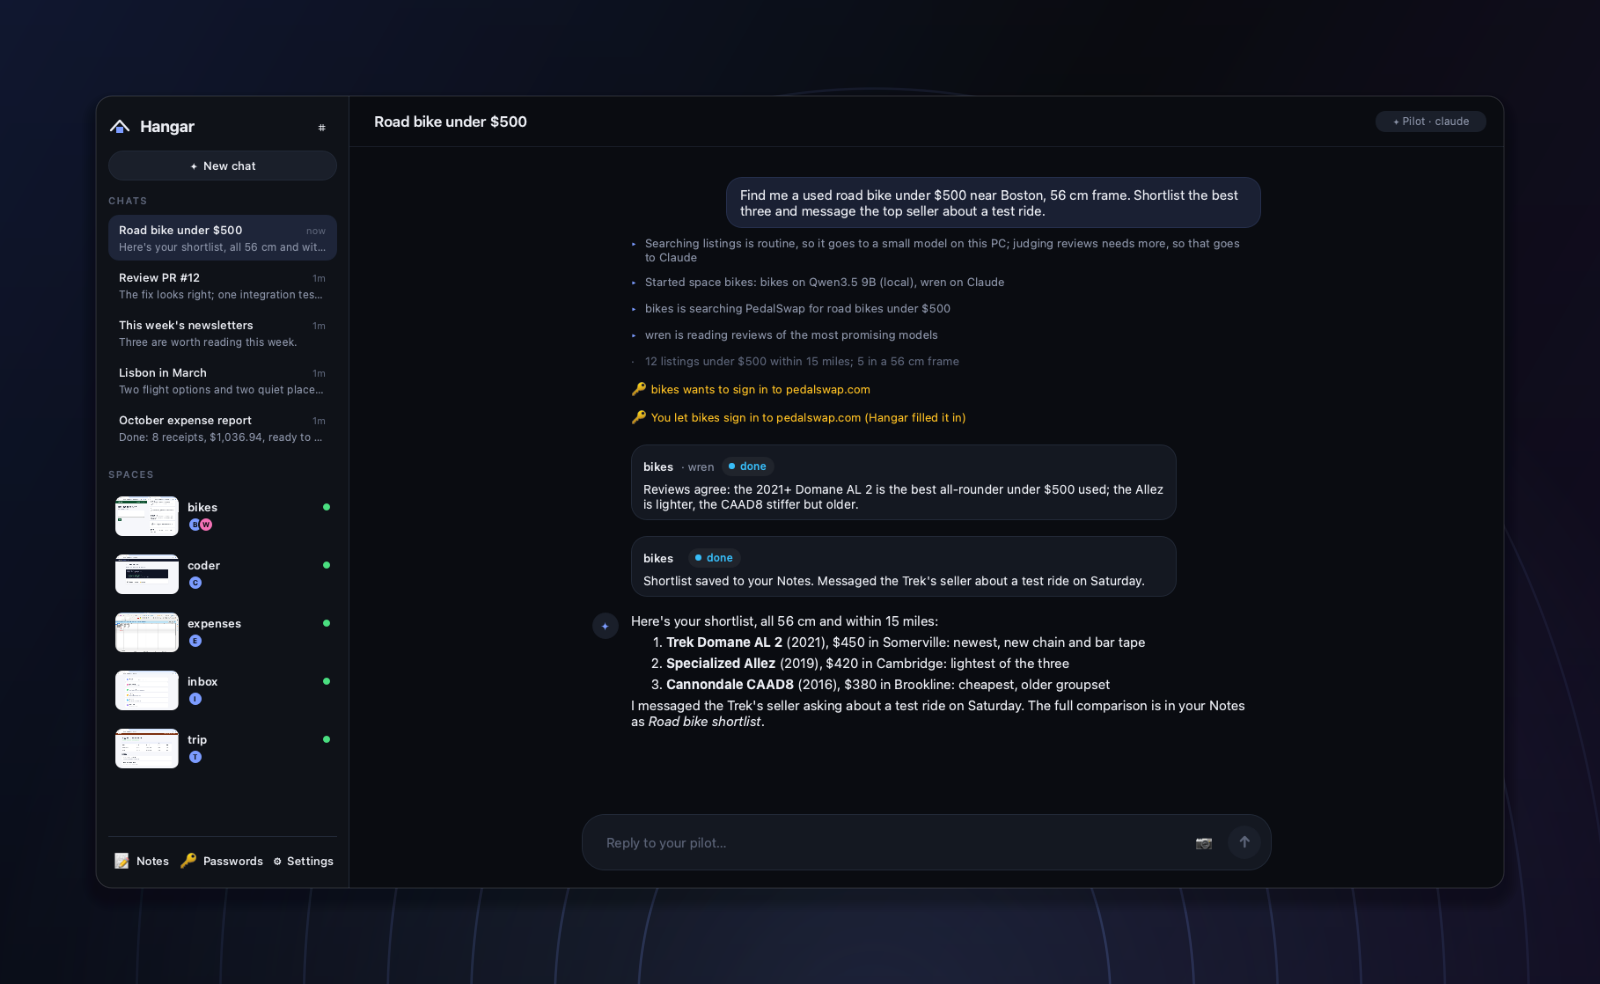
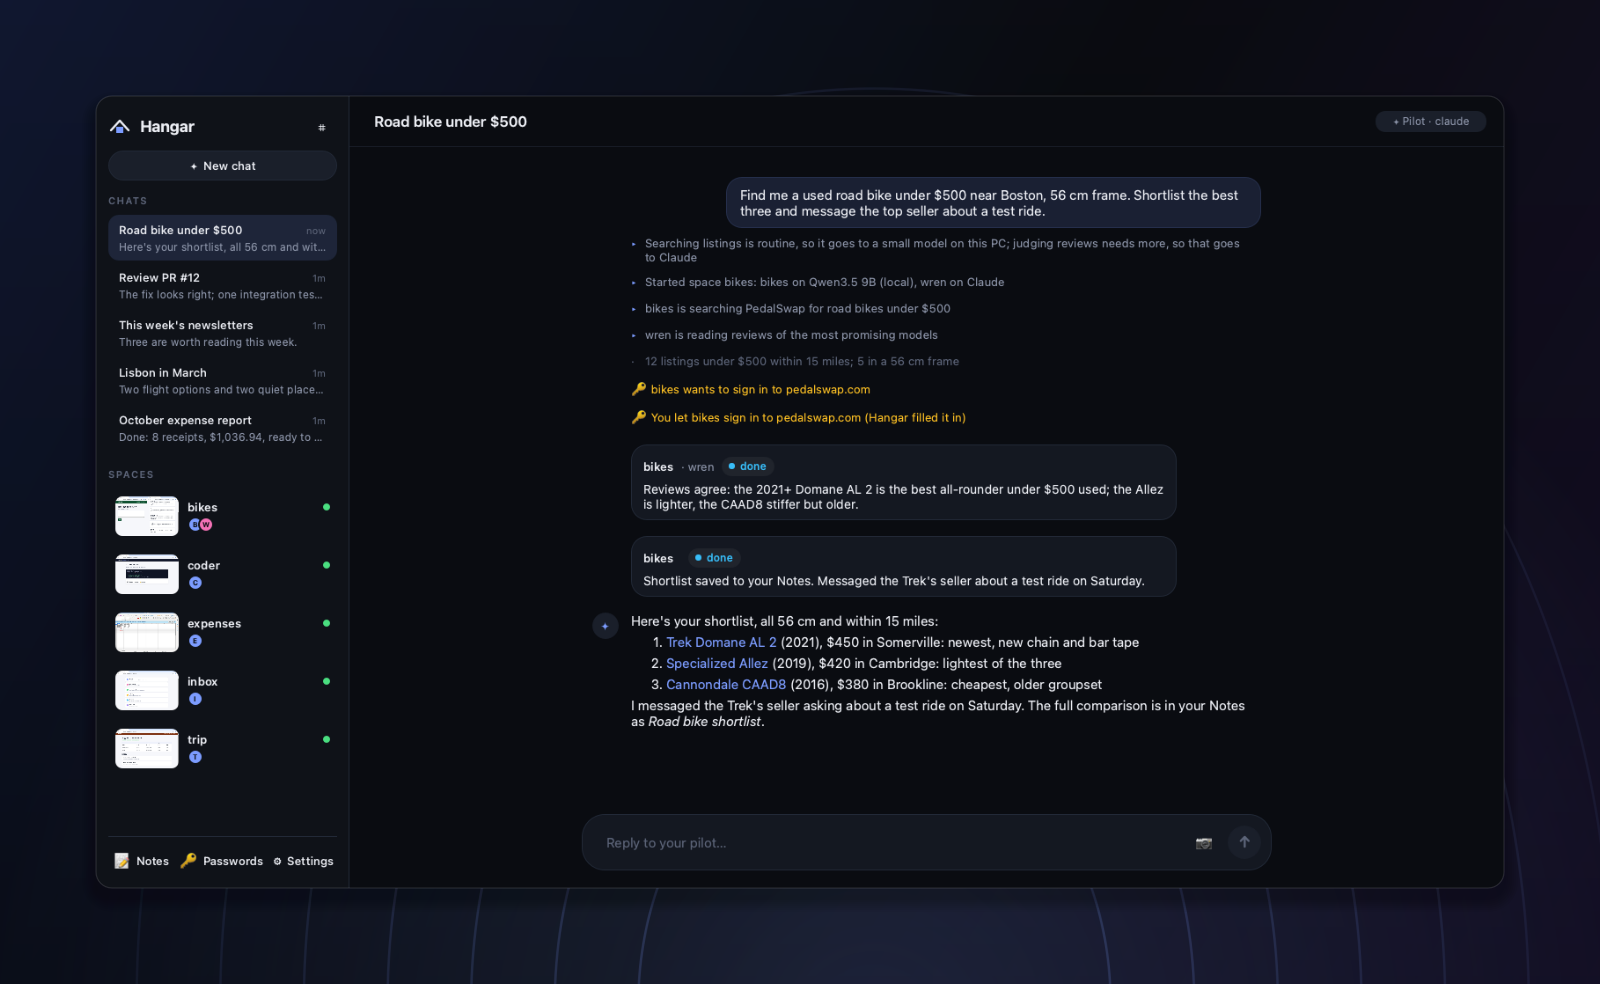
Demo video: model caption with the task card; linked bikes
"The right model for every job" now plays while the task card shows each
agent's model. The pilot's answer and the Notes shortlist link each bike to
its listing.

Changed region(s): [[0.4062, 0.6402, 0.7188, 0.7012]]

diff --git a/video/render.py b/video/render.py
@@ -30,30 +30,31 @@ SCENES = [
      "Hangar hands it to a crew of AI agents that use one, just like you do.", 0),
     ("ask", 10.5, "Hand it off the moment you think of it",
      "One shortcut, from anywhere on your computer. Type it or say it.", 12),
-    ("plan", 10.5, "A crew takes it from there",
-     "Your pilot splits the job into parts and puts an agent on each, with a computer of its own.", 6.56),
-    ("space", 12.5, "They work the way you do",
-     "Real websites, real apps, real files. If you can do it on a computer, so can they.", 6.31),
+    ("plan", 9.0, "A crew takes it from there",
+     "Your pilot splits the job into parts and puts an agent on each, with a computer of its own.", 6.89),
+    ("space", 13.5, "They work the way you do",
+     "Real websites, real apps, real files. If you can do it on a computer, so can they.", 6.54),
     ("overview", 5.0, "Many jobs at once",
      "Shopping, email, code, travel, paperwork: all moving while you get on with your day.", 4.20),
     ("approve", 4.5, "Your accounts stay yours",
-     "Agents ask before they sign in anywhere, and never see a password.", 4.29),
+     "Agents ask before they sign in anywhere, and never see a password.", 4.57),
     ("takeover", 4.0, "You're always in charge", "Watch any agent work, step in, and hand it back.", 0),
     ("review", 5.0, "Nothing happens behind your back", "See every change, and undo anything you don't like.", 0),
-    ("answer", 8.0, "Come back to finished work", "One answer, with the work already done.", 6.53),
+    ("answer", 8.0, "Come back to finished work", "One answer, with the work already done.", 6.27),
     ("notes", 5.0, "It all adds up", "What your crew finds is kept in your notes, for you and for them.", 0),
     ("private", 5.0, "It lives on your computer.",
      "Agents see only the folders you share, and can run on AI models on your own machine.", 0),
     ("outro", 5.0, "", "", 0),
 ]
 CARDS = {"why", "private"}
-# Scenes that tell two things: (seconds into the scene, title, detail) for the second caption.
-SECOND_CAPTION = {"plan": (4.6, "The right model for every job",
+# Scenes that tell two things: the first caption shows until the given second, then the
+# scene's own caption. The model one plays while the task card shows each agent's model.
+FIRST_CAPTION = {"space": (5.6, "The right model for every job",
                            "Routine work runs on a small model on your PC, free and private. "
                            "Only the parts that need more go to a bigger model.")}
 SAME_WINDOW = {"plan", "space", "overview", "approve", "takeover", "review", "answer"}
 # The pilot hands each agent its own job as the space scene opens (seconds into the scene).
-ASSIGN = {"space": (0.8, 4.4, [("#7c9cff", "bikes", "Search PedalSwap for 56 cm road bikes under $500",
+ASSIGN = {"space": (0.8, 5.4, [("#7c9cff", "bikes", "Search PedalSwap for 56 cm road bikes under $500",
                                  "Qwen3.5 9B · on this PC"),
                                 ("#f472b6", "wren", "Read reviews of the most promising models", "Claude")])}
 SETUP_STEPS = ["setup-0-welcome", "setup-2-accounts", "setup-3-models", "setup-4-pilot", "setup-5-notify",
@@ -370,10 +371,10 @@ def main() -> None:
                 a0, a1, rows = ASSIGN[s.name]
                 draw_assign(p, rows, min(ease((lt - a0) / 0.35), ease((a1 - lt) / 0.35)))
             if s.name not in CARDS:
-                if s.name in SECOND_CAPTION:
-                    t2, title2, detail2 = SECOND_CAPTION[s.name]
-                    draw_caption(p, s.title, s.detail, min(ta, ease((t2 - 0.25 - lt) / 0.3)))
-                    draw_caption(p, title2, detail2, min(ta, ease((lt - t2) / 0.4)) if lt > t2 else 0)
+                if s.name in FIRST_CAPTION:
+                    t2, title1, detail1 = FIRST_CAPTION[s.name]
+                    draw_caption(p, title1, detail1, min(ta, ease((t2 - 0.25 - lt) / 0.3)))
+                    draw_caption(p, s.title, s.detail, min(ta, ease((lt - t2) / 0.4)) if lt > t2 else 0)
                 else:
                     draw_caption(p, s.title, s.detail, ta)
         p.end()

diff --git a/video/capture.py b/video/capture.py
@@ -61,9 +61,11 @@ RESULT = [
     ("report", "Shortlist saved to your Notes. Messaged the Trek's seller about a test ride on Saturday.",
      {"space": "bikes", "who": "bikes", "status": "done"}),
     ("pilot", "Here's your shortlist, all 56 cm and within 15 miles:\n\n"
-              "1. **Trek Domane AL 2** (2021), $450 in Somerville: newest, new chain and bar tape\n"
-              "2. **Specialized Allez** (2019), $420 in Cambridge: lightest of the three\n"
-              "3. **Cannondale CAAD8** (2016), $380 in Brookline: cheapest, older groupset\n\n"
+              "1. **[Trek Domane AL 2](https://pedalswap.com/l/48213)** (2021), $450 in Somerville: newest, "
+              "new chain and bar tape\n"
+              "2. **[Specialized Allez](https://pedalswap.com/l/47790)** (2019), $420 in Cambridge: lightest of the three\n"
+              "3. **[Cannondale CAAD8](https://pedalswap.com/l/46102)** (2016), $380 in Brookline: cheapest, "
+              "older groupset\n\n"
               "I messaged the Trek's seller asking about a test ride on Saturday. The full comparison "
               "is in your Notes as *Road bike shortlist*.", {"status": "done"}),
 ]
@@ -71,9 +73,9 @@ NOTES = {
     "Agents/bikes/Road bike shortlist.md":
         "# Road bike shortlist\n\nUsed road bikes under $500 near Boston, 56 cm frame. #bikes\n\n"
         "| Bike | Price | Year | Where | Notes |\n|---|---|---|---|---|\n"
-        "| **Trek Domane AL 2** | $450 | 2021 | Somerville | new chain and bar tape; seller messaged |\n"
-        "| Specialized Allez | $420 | 2019 | Cambridge | lightest, Sora groupset |\n"
-        "| Cannondale CAAD8 | $380 | 2016 | Brookline | cheapest, needs new tyres |\n\n"
+        "| **[Trek Domane AL 2](https://pedalswap.com/l/48213)** | $450 | 2021 | Somerville | new chain and bar tape; seller messaged |\n"
+        "| [Specialized Allez](https://pedalswap.com/l/47790) | $420 | 2019 | Cambridge | lightest, Sora groupset |\n"
+        "| [Cannondale CAAD8](https://pedalswap.com/l/46102) | $380 | 2016 | Brookline | cheapest, needs new tyres |\n\n"
         "Checks for the test ride come from [[Buying a used bike]].\n",
     "Buying a used bike.md": "# Buying a used bike\n\n- Chain wear, brake pads, wheel wobble\n- Ask for the "
                              "service history\n- See [[Road bike shortlist]]\n",

diff --git a/docs/make_images.py b/docs/make_images.py
@@ -22,13 +22,13 @@ V = ROOT / "out/video"
 SHOTS = {   # name: (source, framed on the wallpaper?)
     "hero": (V / "space/0076.png", True),
     "ask": (V / "ask/0127.png", True),
-    "plan": (V / "plan/0058.png", True),
+    "plan": (V / "plan/0061.png", True),
     "space": (V / "space/0076.png", True),
     "overview": (V / "overview/0018.png", True),
     "approve": (V / "approve/0010.png", True),
     "takeover": (V / "takeover/0000.png", True),
     "review": (V / "review/0000.png", True),
-    "answer": (V / "answer/0048.png", True),
+    "answer": (V / "answer/0046.png", True),
     "notes": (V / "notes/0000.png", True),
     "setup-welcome": (ROOT / "out/setup-0-welcome.png", False),
     "setup-accounts": (ROOT / "out/setup-2-accounts.png", False),
